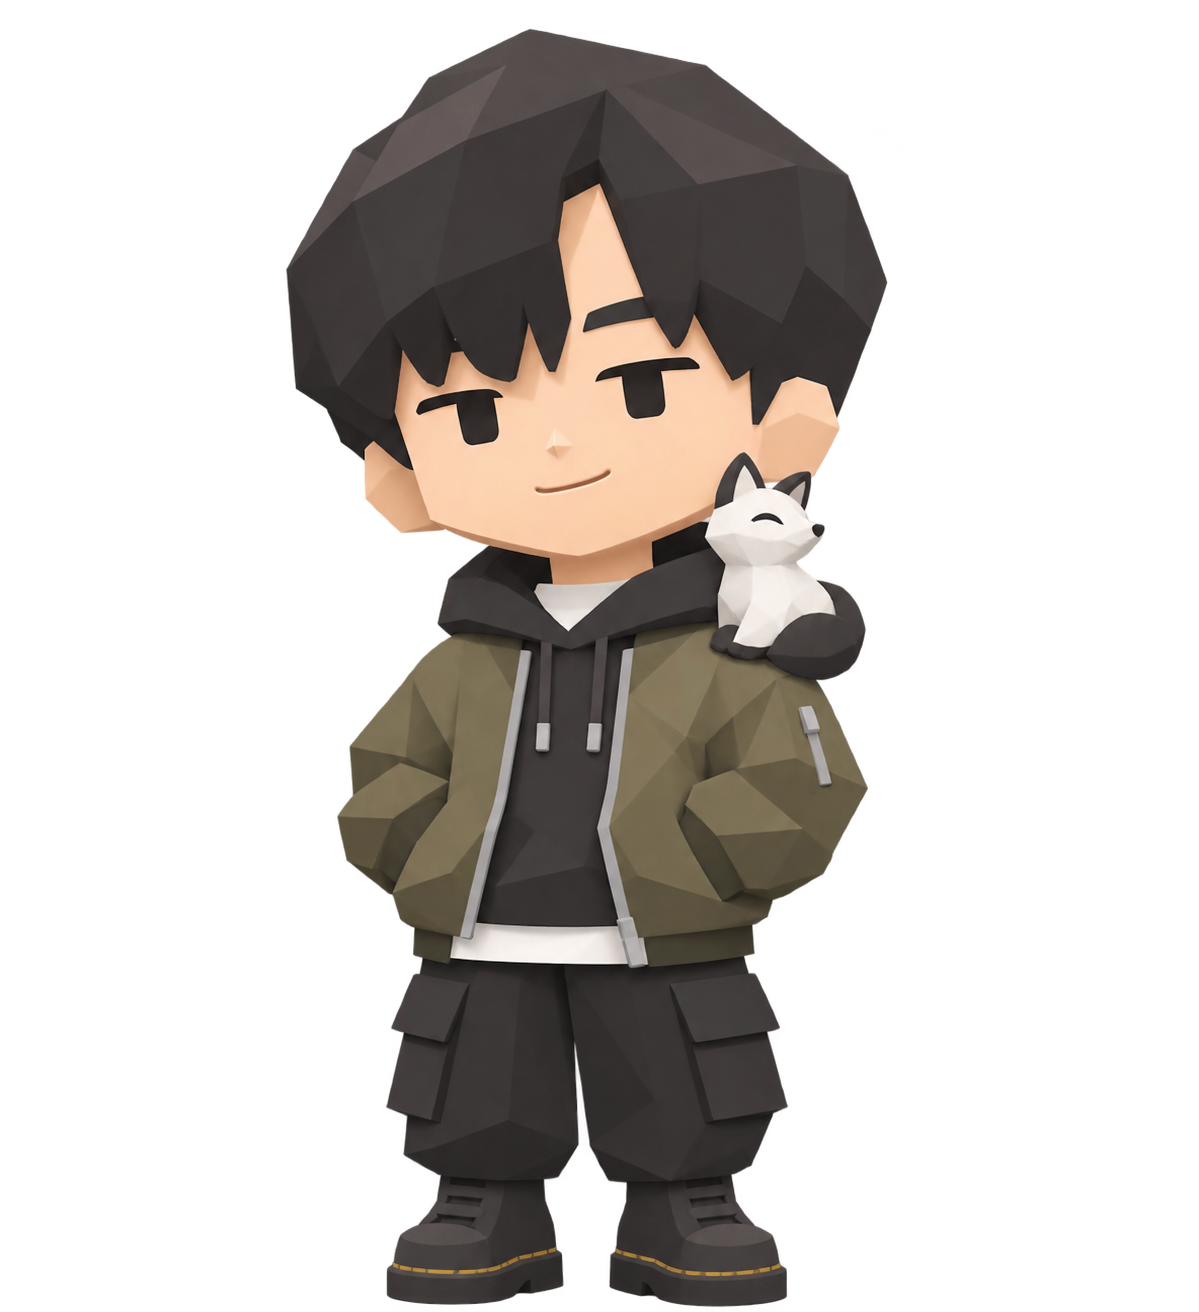
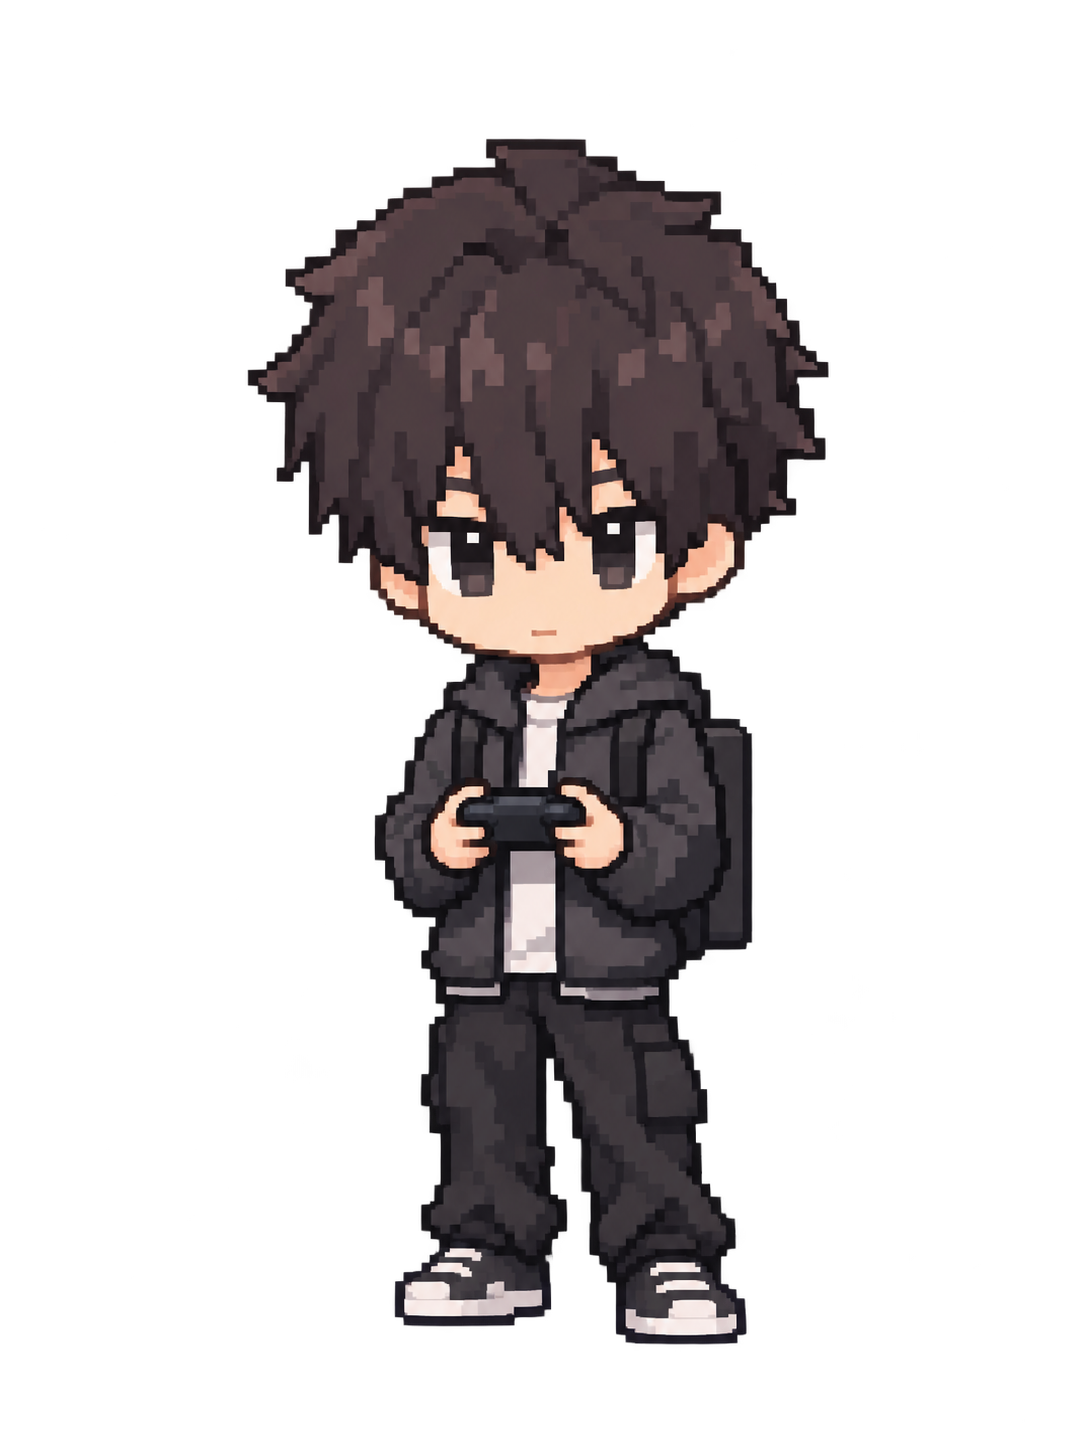
140のプロフィールとアバターを更新
- 名前・ひとこと・趣味を自分の内容に変更
- アバター画像を自分のものに差し替え

Changed region(s): [[0.2127, 0.0, 0.7597, 1.0]]

diff --git a/members/140.js b/members/140.js
@@ -1,15 +1,15 @@
 addMember({
   id: "140",                             // ファイル名・_list.js と同じID
-  name: "140",
-  kana: "",
-  color: "green",                        // green / blue / coral / yellow
+  name: "原田京一",
+  kana: "はらだきょういち",
+  color: "coral",                        // green / blue / coral / yellow
   avatar: "assets/140-avatar.png",       // メンバー紹介カードの画像
   avatarAlt: "140のアバター",
   heroAvatar: "assets/140-avatar.png",   // トップの集合ビジュアル用（省略すると avatar を使う）
   heroSize: "primary",                   // normal / primary / tall / wide
-  intro: "MBTIは運動家（ENFP）です。",
+  intro: "この世でゲームが一番好きです。",
   details: [
-    ["趣味", "映画鑑賞"],
+    ["趣味", "テレビゲーム"],
     ["ひとこと", "よろしくお願いします！"],
   ],
 
